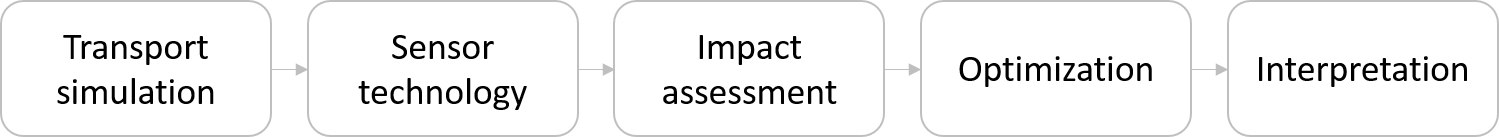
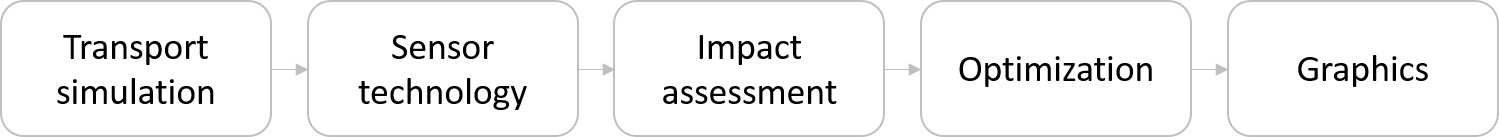
Updates to the UM

Changed region(s): [[0.8286, 0.4088, 0.982, 0.6131]]

diff --git a/documentation/conf.py b/documentation/conf.py
@@ -252,10 +252,11 @@ latex_elements = {
 #'pointsize': '10pt',
 
 # Additional stuff for the LaTeX preamble.
-'preamble': '''
-        \\pagestyle{plain}
-        \\pagenumbering{arabic}
-        \\renewcommand{\\refname}{References}
+'preamble':  '''%
+  \pagestyle{plain}
+  \pagenumbering{arabic}
+  \\renewcommand{\\refname}{References}
+  \\raggedright
 ''',
 
 # Latex figure (float) alignment

diff --git a/chama/impact.py b/chama/impact.py
@@ -89,7 +89,7 @@ def extract(signal, sensors, metric='Time', txyz_names=['T', 'X', 'Y', 'Z']):
         
         # If the sensor detected something
         if detected.shape[0] > 0:
-            if metric == 'Count':
+            if metric == 'Coverage':
                 for row in range(detected.shape[0]):
                     col = str(detected.index[row])
                     val = 0

diff --git a/documentation/impact.rst b/documentation/impact.rst
@@ -2,10 +2,66 @@
 
     \newpage
 
+.. _impact:
+	
 Impact assessment
 ==========================
 
+Impact assessment extracts the `impact` of a particular sensor detecting a particular scenario.  
+Chama includes two options to compute impact from a set of transport scenarios and sensor characteristics.
+The impact metrics include: **detection time** and **coverage**.
+Depending on the metric selected, the goal of sensor placement optimization is to minimize or maximize the impact over all scenarios by selecting a set of sensors.
+In general, a scenario will only be detected by certain sensors under certain operating conditions.
+Likewise, a sensor will not detect all scenarios.
+To pick the best set of sensors for a given set of scenarios, Chama extracts impact metrics to use in sensor placement optimization.
+
+Chama uses Pandas DataFrames [Mcki13]_ to store the impact data. The columns of the impact DataFrame are:
+
+* Scenario
+* Sensors
+* Impact
+
+The :mod:`chama.impact` module has more information on extracting impact metrics from a set of transport scenarios and sensor characteristics.
+
 Detection time
+-----------------
+Sensors can be placed to minimize detection time.  
+Detection time is the time that a sensor detects a scenario.  
+An example `detection time` impact DataFrame is shown in :numref:`fig-impact-time`.
 
+.. _fig-impact-time:
+.. figure:: figures/impacttime.png
+   :scale: 50 %
+   :alt: impact
+   
+   Example detection time impact DataFrame.
 
+This impact DataFrame shows that Scenario A was detected by Sensor 1 at a time of 2.0 (units of time depend on the simulation data).
+Scenario A was also detected by Sensor 2 at time 5.2.  This information is used in sensor placement optimization to find the set of sensors that minimizes detection time.
+Sensor placement optimization also requires an impact value for each scenario which represents the impact if that scenario was undetected.
+When minimizing detection time, this value can be set to a value larger than the maximum detection time.  Individual scenarios can be given different undetected impact values.
 
+Detection time can be translated into other metrics that might be available from the set of transport scenarios.  
+These metrics might include cost, population impacted, or other measures of damage.
+For example, if the cost of scenario A at time 2.0 is $40,000, then the impact metric for that detected scenario can be translated from a detection time of 2.0 to a cost of $40,0000.
+Other lines of the impact DataFrame be translated in a similar manner.
+
+Coverage
+-----------
+Sensors can also be placed to maximize coverage. Coverage is a measure of how often a sensor detects a scenario (i.e., the probability of detection).
+The coverage metric records scenario-time pairs that are detected.
+An example `coverage` impact DataFrame is shown in :numref:`fig-impact-cov`.
+
+.. _fig-impact-cov:
+.. figure:: figures/impactcov.png
+   :scale: 50 %
+   :alt: impact
+   
+   Example coverage impact DataFrame.
+ 
+This impact DataFrame shows that Scenario A at time 2 was detected by Sensor 1 and Scenario A at time 5.2 was detected by Sensor 2.  
+This is essentially a reordering of the data extracted for detection time.
+This information is used in sensor placement optimization to find the set of sensors that maximizes coverage.
+Because Chama uses a minimization function in the optimization routine, the impact metric is 0 if the scenario-time pair is detected.  
+Sensor placement optimization also requires an impact value for each scenario-time which represents the impact if that scenario-time was not covered.
+When maximizing coverage, this value is set to 1 for each scenario-time pair.

diff --git a/documentation/overview.rst b/documentation/overview.rst
@@ -5,16 +5,26 @@
 Overview
 ================
 
+.. raw:: latex
+
+	Continuous or regularly scheduled monitoring has the potential to quickly identify changes in the environment. 
+	However, even with low-cost sensors, only a limited number of sensors can be used. The physical placement of 
+	these sensors and the sensor technology used can have a large impact on the performance of a monitoring strategy.
+	\newline\newline
+
+Chama is an open source python package which includes mixed-integer, stochastic programming formulations to determine sensor locations 
+and technology that maximize the effectiveness of the detection program. 
 The sensor placement optimization methods used in Chama were originally 
 developed by Sandia National Laboratories and the U.S. Environmental Protection Agency
 for water utilities.  
 The basic sensor placement optimization method included in Chama is based on methods in
 the Threat Ensemble Vulnerability Assessment and Sensor Placement Optimization Tool (TEVA-SPOT) [USEPA12]_
 and the Water Security Toolkit (WST) [USEPA15]_.  
-These tools embed contaminant transport simulations, generated using the water distribution network model EPANET [Ross00]_, 
-with the sensor placement optimization methods.
+These tools embed contaminant transport simulations using the water distribution network model EPANET [Ross00]_ 
+with impact assessment and sensor placement optimization methods.
 
 Chama was developed to be a general purpose sensor placement optimization software tool.  
+The software is intended to be used by industry and the research community. 
 Chama expands on previous methods by allowing the user to optimize both the location and type of sensors in a monitoring system.
 Both stationary and mobile sensors can be defined for detection at a point or taking into account a field of view from a camera.  
 Optical gas imaging models from the Fugitive Emissions Abatement Simulation Testbed (FEAST) [KeRB16]_ have been incorporated into Chama.
@@ -22,7 +32,7 @@ Furthermore, transport simulations can represent a wide range of applications, i
 
 * Air dispersion
 * Transport in pipe networks
-* Groundwater transport
+* Surface water transport
 * Seismic wave propagation
 
 The basic steps required for sensor placement optimization using Chama are shown in :numref:`fig-flowchart`.
@@ -38,6 +48,9 @@ The basic steps required for sensor placement optimization using Chama are shown
 * **Sensor technology**: Define a set of feasible sensor technologies, including stationary and mobile sensors, point detectors and cameras.
 * **Impact assessment**: Extract the impact of detecting transport simulations given a set of defined sensor technologies.
 * **Optimization**: Optimize sensor location and type given a sensor budget.
-* **Interpretation**: Generate maps of the site that include sensor layout and information about scenarios that were and were not detected.
+* **Graphics**: Generate maps of the site that include sensor layout and information about scenarios that were and were not detected.
 
-Each step is discussed further in the user manual.
+The following documentation includes additional information on these steps, installation instructions, 
+description of software features, and software license.  It is assumed that the 
+reader is familiar with the Python Programming Language.  References are included for 
+additional background on software components. 

diff --git a/documentation/installation.rst b/documentation/installation.rst
@@ -10,12 +10,24 @@ Information on installing and using python can be found at
 https://www.python.org/.  
 Python distributions, such as Anaconda, are recommended to manage the Python interface.  
 
-To build Chama from source using git::
+To install the latest stable version of Chama using pip::
+
+	pip install chama
+
+To build the development branch of Chama from source using git::
 
 	git clone https://github.com/sandialabs/chama
 	cd chama
 	python setup.py install
 
+Developers should build Chama using the 'develop' option::
+
+	git clone https://github.com/sandialabs/chama
+	cd chama
+	python setup.py develop
+
+Dependencies
+--------------
 Python package dependencies include:
 
 * Pyomo [HLWW12]_: optimization modeling language and optimization capabilities, 
@@ -25,9 +37,32 @@ Python package dependencies include:
 * Numpy [VaCV11]_: support large, multi-dimensional arrays and matrices, 
   http://www.numpy.org.
 
-Optional python packages include:
+Optional python package dependencies include:
 
 * Matplotlib [Hunt07]_: produce figures, 
   http://matplotlib.org.
+ 
+Software QA
+-------------------------------------
+
+**GitHub:**
+The software repository is hosted on GitHub at https://github.com/sandialabs/chama.  
+
+**PyPI:**
+The latest stable version hosted on PyPI at https://pypi.python.org/pypi/chama.
+
+**Testing:**
+Automated testing is run using TravisCI at https://travis-ci.org/sandialabs/chama.
+Test coverage statistics are collected using Coveralls at https://coveralls.io/github/sandialabs/chama.
+Tests can be run locally using nosetests::
   
-	
+	nosetests -v --with-coverage --cover-package=chama chama
+
+**Documentation:**
+Documentation is built using Read the Docs and hosted at https://chama.readthedocs.io.
+
+**Contributing:**
+Software developers are expected to follow standard practices to document and test new code. 
+Pull requests will be reviewed by the core development team.
+See https://github.com/sandialabs/chama/graphs/contributors for a list of contributors.
+

diff --git a/documentation/transport.rst b/documentation/transport.rst
@@ -30,7 +30,7 @@ Chama uses Pandas DataFrames [Mcki13]_ to store the signal data.
 Pandas includes many functions to easily populate DataFrames from a wide range of file formats. 
 For example, DataFrames can be generated from Excel, CSV, and SQL.
 The format of a signal DataFrame is shown in :numref:`fig-signal-format`, where 
-X, Y, and Z describe the location, T is the simulation time, and S :subscript:`n` is scenario n.
+X, Y, and Z describe the location, T is the simulation time, and Sn is scenario n.
 
 .. _fig-signal-format:
 .. figure:: figures/signalformat.png
@@ -45,15 +45,12 @@ Chama includes methods to run simple Gaussian plume and Gaussian puff air disper
 Both models assume that air dispersion follows a Gaussian distribution.  
 Gaussian plume models are used to model continuous sources, while 
 Gaussian puff models are used to model non-continuous or variable sources.
-These methods are described in more detail in the API documentation under 
-:meth:`~chama.transport.gaussian_plume` and 
-:meth:`~chama.transport.gaussian_puff`.
+The :mod:`chama.transport` module has additional information on running the Gaussian plume and Gaussian puff models.
 
 External simulation engines
 ------------------------------
 The transport simulations can be generated from a wide range of external simulation engines, for example,
-air dispersion can be simulated using AERMOD or CALPUFF, 
-transport in pipe networks can be simulated using EPANET, 
-groundwater transport can be simulated using MODFLOW, and 
-seismic wave propagation can be simulated using XXX.
+air dispersion can be simulated using AERMOD [USEPA04]_ or CALPUFF [ScSY00]_, 
+transport in pipe networks can be simulated using EPANET [Ross00]_, and
+groundwater transport can be simulated using MODFLOW [McHa88]_.
 Output from external simulation engines can be easily formatted and imported into Chama.

diff --git a/documentation/reference.rst b/documentation/reference.rst
@@ -27,9 +27,17 @@ References
 
 .. [LBSW12] Legg, S.W., Benavides-Serrano, A.J., Siirola, J.D., Watson, J.P., Davis, S.G., Bratteteig, A., & Laird, C.D. (2012) A Stochastic Programming Approach for Gas Detector Placement Using CFD-Based Dispersion Simulations, Computers & Chemical Engineering, Volume 47, Pages 194-201.
 
+.. [Makh10] Makhorin, A. (2010). GNU Linear Programming Kit Reference Manual for GLPK Version 4.45, Department for Applied Informatics, Moscow Aviation Institute, Moscow, Russia.
+
+.. [McHa88] McDonald, M.G., & Harbaugh, A.W. (1988). A Modular Three-dimensional Finite-Difference Groundwater Flow Model: U.S. Geological Survey Techniques of Water-Resources Investigations, Book 6, Chap. A1, 586p.
+
 .. [Mcki13] McKinney W. (2013). Python for Data Analysis: Data Wrangling with Pandas, NumPy, and IPython. O'Reilly Media, 1 edition, 466P.
 
 .. [Ross00] Rossman, L.A. (2000). EPANET 2 Users Manual. U. S. Environmental Protection Agency Technical Report, EPA/600/R--00/057, 200p.
+
+.. [ScSY00] Scire, J., Strimaitis, D.G., & Yamartino, R.J. (2000). A User's Guide for the CALPUFF Dispersion Model (Version 5), Earth Tech, Inc.
+
+.. [USEPA04] United States Environmental Protection Agency. (2004). User's Guide for the AMS/EPA Regulatory Model - AERMOD, U. S. Environmental Protection Agency Technical Report, EPA-454/B-03-001.
 
 .. [USEPA12] United States Environmental Protection Agency. (2012). TEVA-SPOT Toolkit User Manual, U. S. Environmental Protection Agency Technical Report, EPA/600/R-08/041B.
 

diff --git a/documentation/index.rst b/documentation/index.rst
@@ -7,10 +7,11 @@ a limited number of sensors can be used.
 The physical placement of these sensors and the sensor technology used can have 
 a large impact on the performance of a monitoring strategy.  
 
-Chama is a python package which includes mixed-integer, stochastic 
+Chama is an open source python package which includes mixed-integer, stochastic 
 programming formulations to determine sensor locations and technology that maximize 
 the effectiveness of the detection program. 
-The software was developed to design sensor networks for airborne pollutants, 
+The methods in Chama were originally developed to place sensors in water distribution systems.
+Chama is currently being used to to design sensor networks to monitor airborne pollutants, 
 but the methods are general and 
 can be applied to a wide range of applications.
 
@@ -25,11 +26,10 @@ Contents
    sensors
    impact
    optimization
-   interpretation
+   graphics
    example
    license
    whatsnew
-   developers
    apidoc/chama
    reference
 

diff --git a/documentation/sensors.rst b/documentation/sensors.rst
@@ -5,14 +5,14 @@
 Sensor technology
 ==========================
 
+The :mod:`chama.sensors` module has more information on setting up stationary, mobile, and camera sensors.
+
 Stationary
 ------------
 A stationary sensor is fixed at a single location. 
 Sensor measurements are captured at set sampling times.
 The sensor returns measurements at a single point or includes a 
 camera and returns measurements which include a field of view. 
-
-See :meth:`~chama.sensors.Stationary` for more details.
 
 Mobile 
 -----------
@@ -23,8 +23,5 @@ Based on the sensor location at a given time, the sensor returns measurements
 at a single point or includes a camera and returns measurements which include 
 a field of view.  
 
-See :meth:`~chama.sensors.Mobile` for more details.
-
 Camera
 --------
-:meth:`~chama.sensors.Camera`

diff --git a/documentation/acknowledgements.rst b/documentation/acknowledgements.rst
@@ -1,0 +1,13 @@
+.. raw:: latex
+
+    \newpage
+
+	\listoffigures
+	
+	\vspace{5 in}
+	
+	Sandia National Laboratories is a multi-mission laboratory managed and operated by Sandia Corporation, 
+	a wholly owned subsidiary of Lockheed Martin Corporation, for the U.S. Department of Energy's National Nuclear Security Administration 
+	under contract DE-AC04-94AL85000.
+
+    \newpage

diff --git a/documentation/index_latex.rst b/documentation/index_latex.rst
@@ -3,16 +3,15 @@ Contents
 .. toctree::
    :maxdepth: 1
 	
+   acknowledgements
    overview
    installation
    transport
    sensors
    impact
    optimization
-   interpretation
+   graphics
    example
    license
-   developers
-   apidoc/chama
    reference
 
